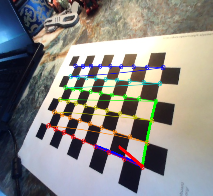
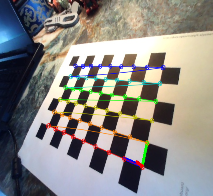
fixed tag poses

Changed region(s): [[0.4507, 0.7347, 0.6479, 0.8571], [0.6479, 0.5204, 0.7324, 0.8265]]

diff --git a/run.py b/run.py
@@ -17,7 +17,8 @@ FPS = 30.0
 FIDUCIAL_MARKER_SIZE = 0.0872 #m
 
 def draw(img, corners, imgpts):
-    corner = tuple(corners[0].ravel().astype("int32"))
+    placement = (corners[0] + corners[2])/2
+    corner = tuple(placement.ravel().astype("int32"))
     imgpts = imgpts.astype("int32")
     img = cv2.line(img, corner, tuple(imgpts[0].ravel()), (255,0,0), 2) #B - x
     img = cv2.line(img, corner, tuple(imgpts[1].ravel()), (0,255,0), 2) #G - y
@@ -61,6 +62,8 @@ class PosePublisher(Node):
         objp[2] = [FIDUCIAL_MARKER_SIZE/2, -FIDUCIAL_MARKER_SIZE/2, 0] #right top
         objp[3] = [-FIDUCIAL_MARKER_SIZE/2, -FIDUCIAL_MARKER_SIZE/2, 0] #left top
 
+        axis = np.float32([[FIDUCIAL_MARKER_SIZE/2,0,0], [0,-FIDUCIAL_MARKER_SIZE/2,0], [0,0,-FIDUCIAL_MARKER_SIZE/2]]).reshape(-1,3)
+
         detector = apriltag("tagStandard41h12")
         while True:
             num_frames += 1
@@ -85,6 +88,7 @@ class PosePublisher(Node):
             detections = detector.detect(image_gray)
 
             for i in range(len(detections)):
+                print(detections[i])
                 #Lots of false positives 
                 corners = np.reshape(np.array([detections[i]["lb-rb-rt-lt"]]), (4,1,2)).astype(np.int32)
 
@@ -93,7 +97,7 @@ class PosePublisher(Node):
                 # cv2.drawContours(frame, (corners,), -1, (0, 255, 0), 3)
                 
                 tag_ret,rvecs, tvecs = cv2.solvePnP(objp, corner_detections,intrinsics, dist, flags=cv2.SOLVEPNP_IPPE_SQUARE)
-                imgpts, jac = cv2.projectPoints(objp, rvecs, tvecs, intrinsics,dist)
+                imgpts, jac = cv2.projectPoints(axis, rvecs, tvecs, intrinsics,dist)
                 img = draw(frame,corner_detections,imgpts)
                 cv2.imshow('img',img)
 
